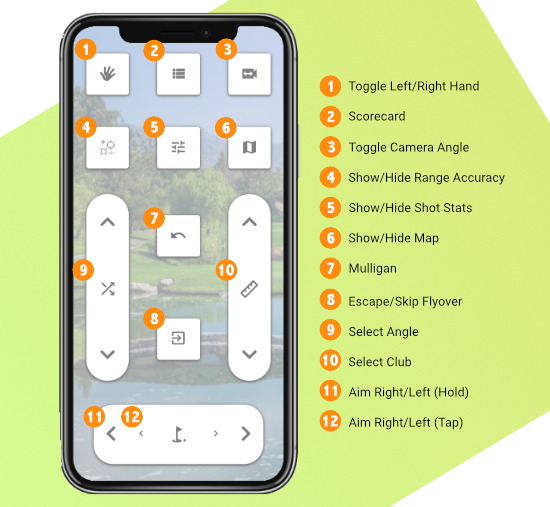
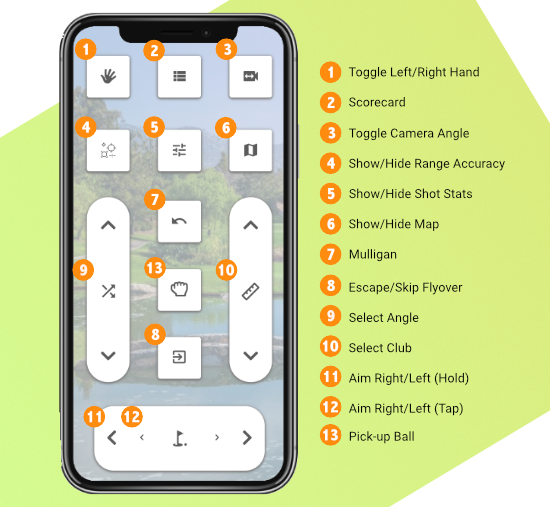
Updated images for latest pick-up ball option

diff --git a/public/style.css b/public/style.css
@@ -62,6 +62,7 @@ li {
   font-weight: 500;
   background-color: rgb(255, 255, 255, 1);
   text-align: center;
+  letter-spacing: 0.5px;
   border: none;
   border-radius: 5px;
   display: inline-block;

diff --git a/README.md b/README.md
@@ -6,7 +6,7 @@ Remote Control for the Optishot 2 Golf Simulator built using Electron, ReactJS, 
 
 **Optishot 2 Player ready to get started?**
 
-1. Download ([Mac](https://github.com/kyle-apex/optishot-remote-controller/releases/download/0.0.2/Optishot.Remote.Controller.dmg) | [Windows](https://github.com/kyle-apex/optishot-remote-controller/releases/download/0.0.2/Optishot.Remote.Controller.exe)) and open the application
+1. Download ([Mac](https://github.com/kyle-apex/optishot-remote-controller/releases/latest/download/Optishot.Remote.Controller.dmg) | [Windows](https://github.com/kyle-apex/optishot-remote-controller/releases/latest/download/Optishot.Remote.Controller.exe)) and open the application
 2. Connect to the same WiFi on your computer and phone
 3. Open the link specified in the application in your mobile web browser
 4. Open Optishot2 (be sure to keep this application running)
